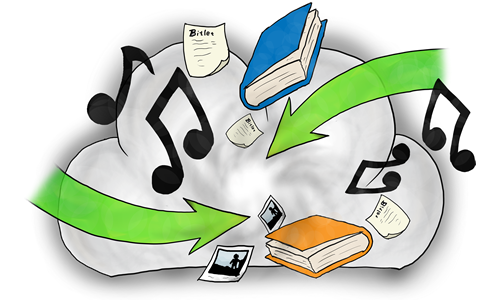
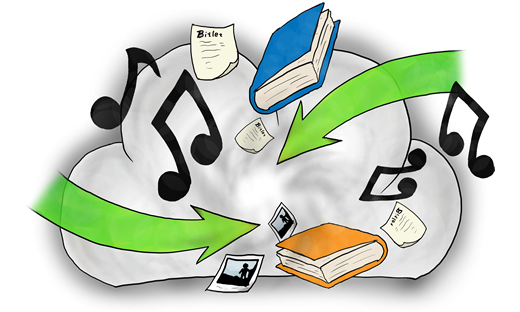
improved look of hero image

diff --git a/view/home/style.css b/view/home/style.css
@@ -31,8 +31,9 @@
 }
 
 .hero-img {
-	width: 500px;
-	height: 300px;
+	width: 520px;
+	height: 312px;
+	margin-top: -12px;
 }
 
 /* Hero Content */
